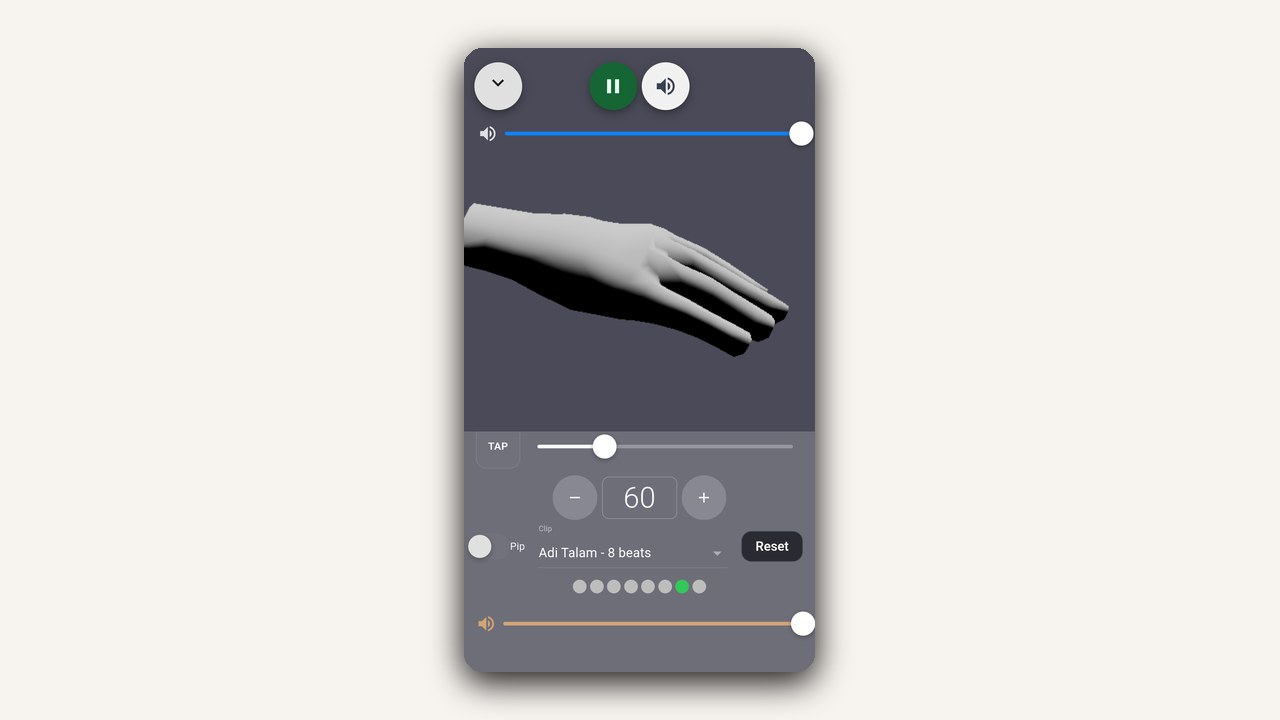
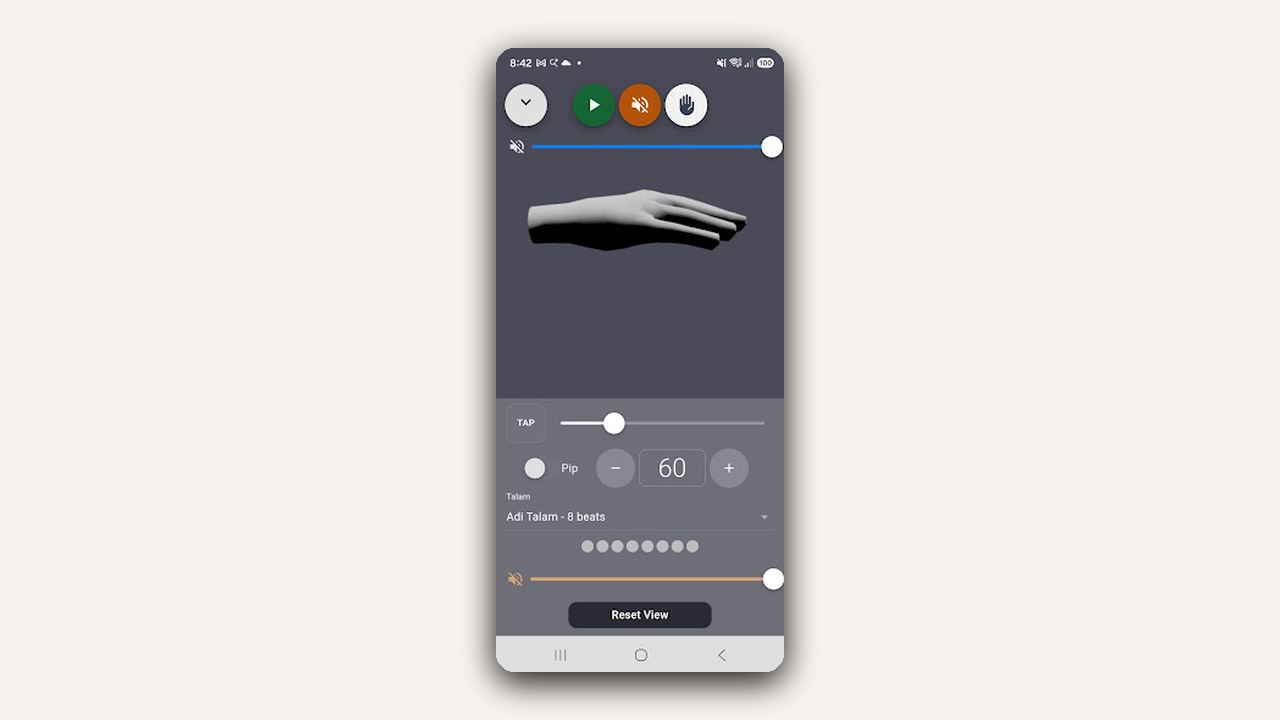
screenshot

Changed region(s): [[0.3438, 0.0611, 0.6562, 0.9778]]

diff --git a/index.html b/index.html
@@ -57,7 +57,7 @@
       <img
         class="app-shot"
         src="assets/app-screenshot.png"
-        alt="Talam Putter playing Adi Talam at 60 beats, with the hand, tempo, and beat dots"
+        alt="Talam Putter on Adi Talam at 60 beats, with play, tempo, and the beat dots"
       />
       <div class="store-badges">
         <a class="app-store" href="https://apps.apple.com/app/id6798958032">
